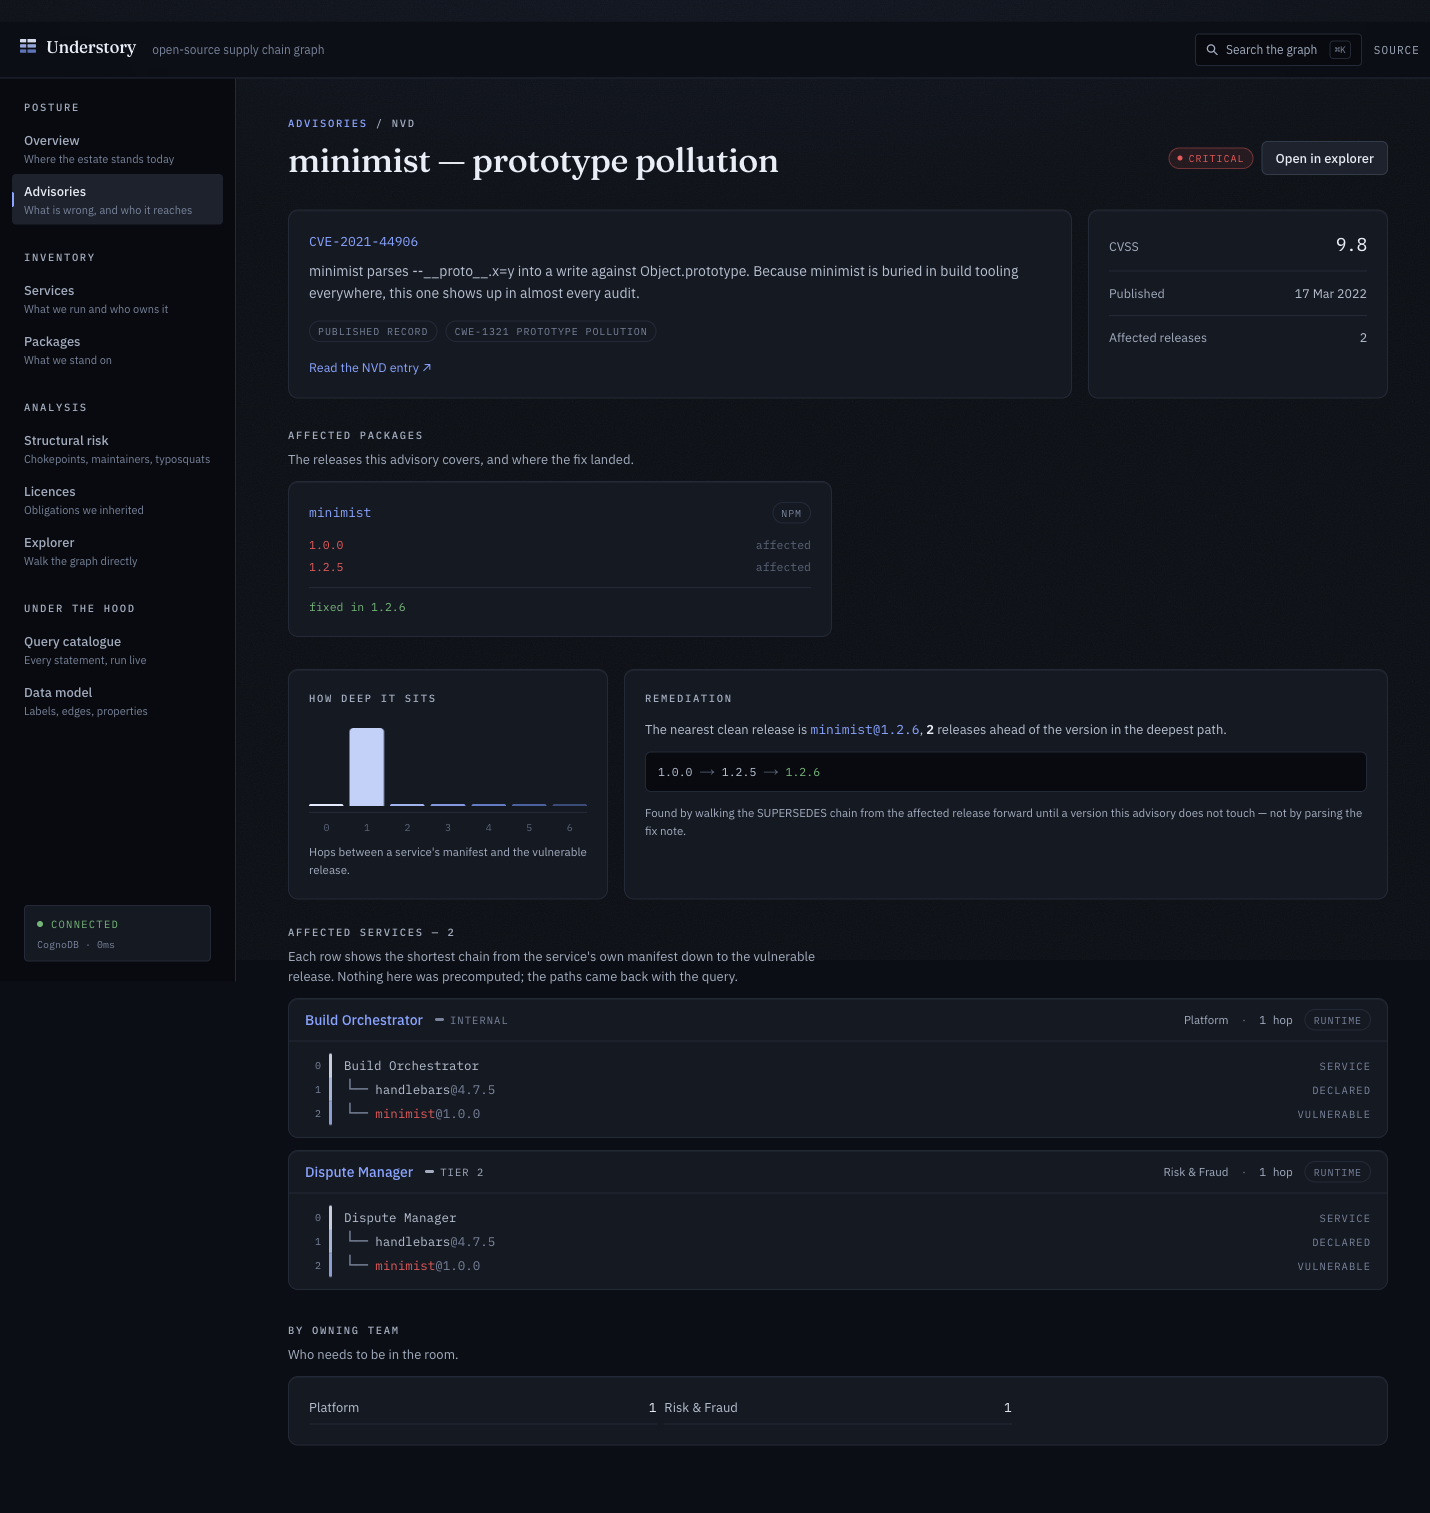
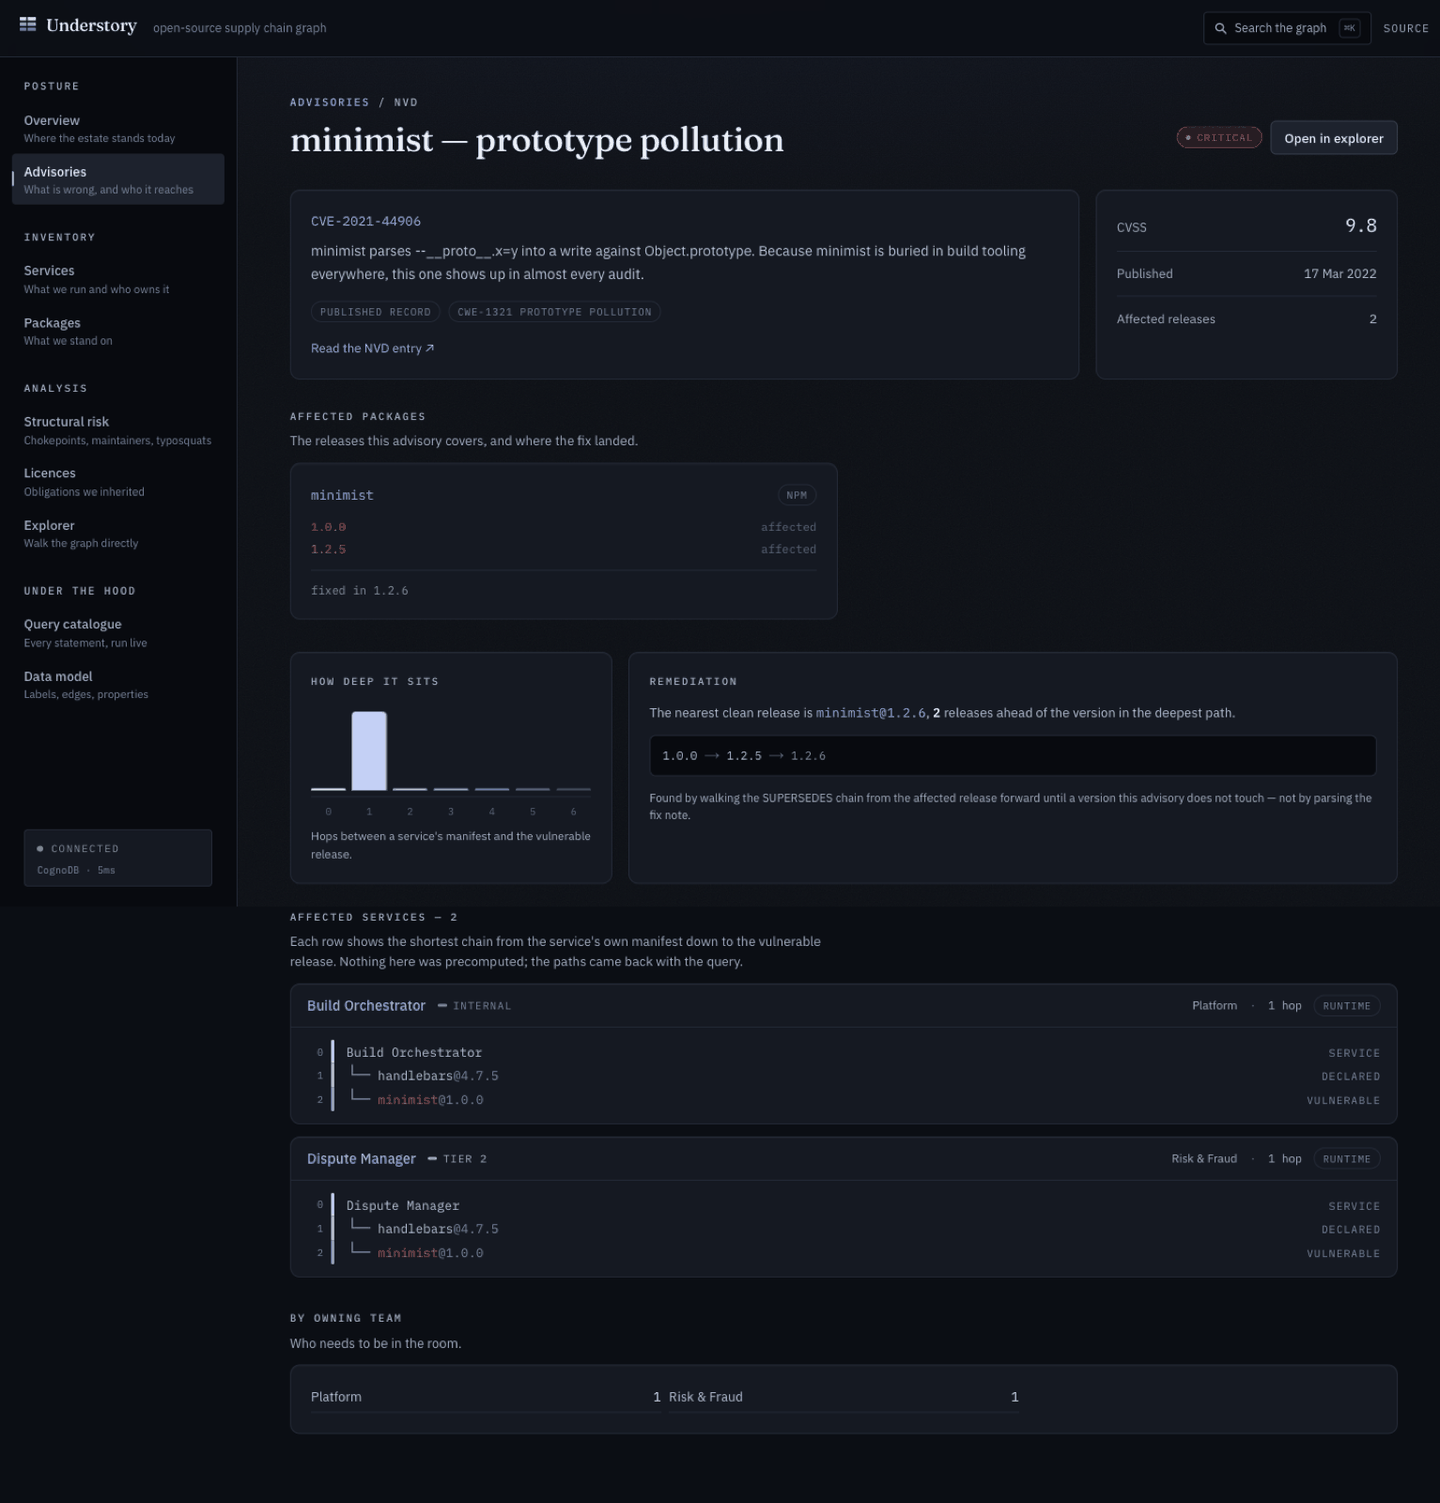
Point the demo at a clean URL and refresh the screenshots
Aliased the production deployment to understory-graph.vercel.app, which is
a lot easier to put in an email than the generated one.

Screenshots re-captured from the deployed build so they show what is
actually shipping, with two additions worth having: the service detail
page, where the four-hop npm chains are the whole argument, and the data
model page. Quantised to a 256-colour palette — a dark UI screenshot has
very few distinct colours, so it is visually lossless at 45% of the size.

diff --git a/src/app/layout.tsx b/src/app/layout.tsx
@@ -40,6 +40,7 @@ export const metadata: Metadata = {
   description:
     "See what your software is standing on. Understory maps services, packages, releases, maintainers, licences and advisories as one graph, so you can answer 'who is affected by this CVE, and through which chain of dependencies?' in a single query.",
   applicationName: "Understory",
+  metadataBase: new URL("https://understory-graph.vercel.app"),
   authors: [{ name: "garvbahl37" }],
   openGraph: {
     title: "Understory — open-source supply chain graph",

diff --git a/README.md b/README.md
@@ -7,7 +7,7 @@
 An open-source supply chain risk console backed by a graph database.
 Built for the Wexa AI take-home, on [CognoDB](https://console.cognodb.com) over Bolt + openCypher.
 
-**[▶ Live demo](https://understory-garvbahl37-gifs-projects.vercel.app)** · [Why a graph database?](#why-a-graph-database) · [Data model](#data-model) · [The queries](#the-queries-that-matter) · [What CognoDB does differently](#what-cognodb-does-differently)
+**[▶ Live demo](https://understory-graph.vercel.app)** · [Why a graph database?](#why-a-graph-database) · [Data model](#data-model) · [The queries](#the-queries-that-matter) · [What CognoDB does differently](#what-cognodb-does-differently)
 
 </div>
 
@@ -244,11 +244,53 @@ Every one of these produced _plausible_ output. None threw. The only reason they
 
 ## Screenshots
 
-|                                                                                                                                                         |                                                                                                                                                  |
-| ------------------------------------------------------------------------------------------------------------------------------------------------------- | ------------------------------------------------------------------------------------------------------------------------------------------------ |
-| ![Overview](docs/screenshots/overview.png) **Overview** — leads with the deepest live exposure, rendered as a soil-profile chain                        | ![Blast radius](docs/screenshots/blast-radius.png) **Blast radius** — every affected service, its chain, its owner, and the nearest safe upgrade |
-| ![Explorer](docs/screenshots/explorer.png) **Explorer** — the subgraph as stored, assembled from several small edge-list queries                        | ![Risk](docs/screenshots/risk.png) **Structural risk** — chokepoints, maintainer blast radius, typosquat adjacency, inherited exposure           |
-| ![Licences](docs/screenshots/licences.png) **Licences** — copyleft obligations that reached a customer-facing service, with the chain that carried them | ![Queries](docs/screenshots/queries.png) **Query catalogue** — every statement, its reasoning, and a button to run it live                       |
+Captured from the deployed build at **[understory-graph.vercel.app](https://understory-graph.vercel.app)**, reading from the live CognoDB instance.
+
+#### Overview — leads with the deepest live exposure, not a row of counters
+
+The interesting fact is never _how many_ advisories there are. It is that a tier-1 service sits four hops above one and nobody on the owning team ever typed that package's name.
+
+![Overview](docs/screenshots/overview.png)
+
+#### Blast radius — every affected service, its chain, and the nearest clean release
+
+The remediation panel finds `1.2.6` by walking the `SUPERSEDES` chain until it reaches a release the advisory does not touch — not by reading the fix note.
+
+![Blast radius](docs/screenshots/blast-radius.png)
+
+#### Service detail — what one service is really standing on
+
+Real npm chains, four levels deep: `Checkout API → express → qs → side-channel → get-intrinsic`. The licence mix is computed over the whole closure, not the manifest.
+
+![Service detail](docs/screenshots/service.png)
+
+#### Explorer — nodes coloured by distance from wherever you started
+
+Hovering traces the route back to the centre and dims everything off it. Same depth ramp as the chains, so the picture and the tables agree.
+
+![Explorer](docs/screenshots/explorer.png)
+
+#### Structural risk — the problems that are true before anything is disclosed
+
+Single-maintainer chokepoints ranked by how much of the estate sits beneath them, weighted by tier-1 reach and by whether anyone on the roster has two-factor enabled.
+
+![Structural risk](docs/screenshots/risk.png)
+
+#### Licences — copyleft obligations that reached a customer-facing service
+
+Three unrelated parts of the graph joined by a variable-depth traversal, returning the chain that carried the obligation rather than just the fact of it.
+
+![Licences](docs/screenshots/licences.png)
+
+#### Query catalogue — every statement, with its reasoning, runnable live
+
+The page renders from the same frozen registry the application executes, so the documentation cannot drift from the code. Edit the parameters and run any of them against the database.
+
+![Query catalogue](docs/screenshots/queries.png)
+
+#### Data model — counts read live, provenance stated plainly
+
+![Data model](docs/screenshots/model.png)
 
 ---
 
@@ -425,12 +467,12 @@ The official Neo4j driver is used unchanged — CognoDB speaks Bolt 5.x and open
 
 ## Deliverables
 
-| | |
-|---|---|
-| **Source** | This repository |
-| **Hosted demo** | https://understory-garvbahl37-gifs-projects.vercel.app — public, no login, pointed at a live free-tier CognoDB instance |
-| **Live database** | `bolt+s://db-19348fec.bravo.databases.cognodb.com`, kept running |
-| **Screen recording** | _to be added_ |
+|                      |                                                                                                      |
+| -------------------- | ---------------------------------------------------------------------------------------------------- |
+| **Source**           | This repository                                                                                      |
+| **Hosted demo**      | https://understory-graph.vercel.app — public, no login, pointed at a live free-tier CognoDB instance |
+| **Live database**    | `bolt+s://db-19348fec.bravo.databases.cognodb.com`, kept running                                     |
+| **Screen recording** | _to be added_                                                                                        |
 
 ---
 
